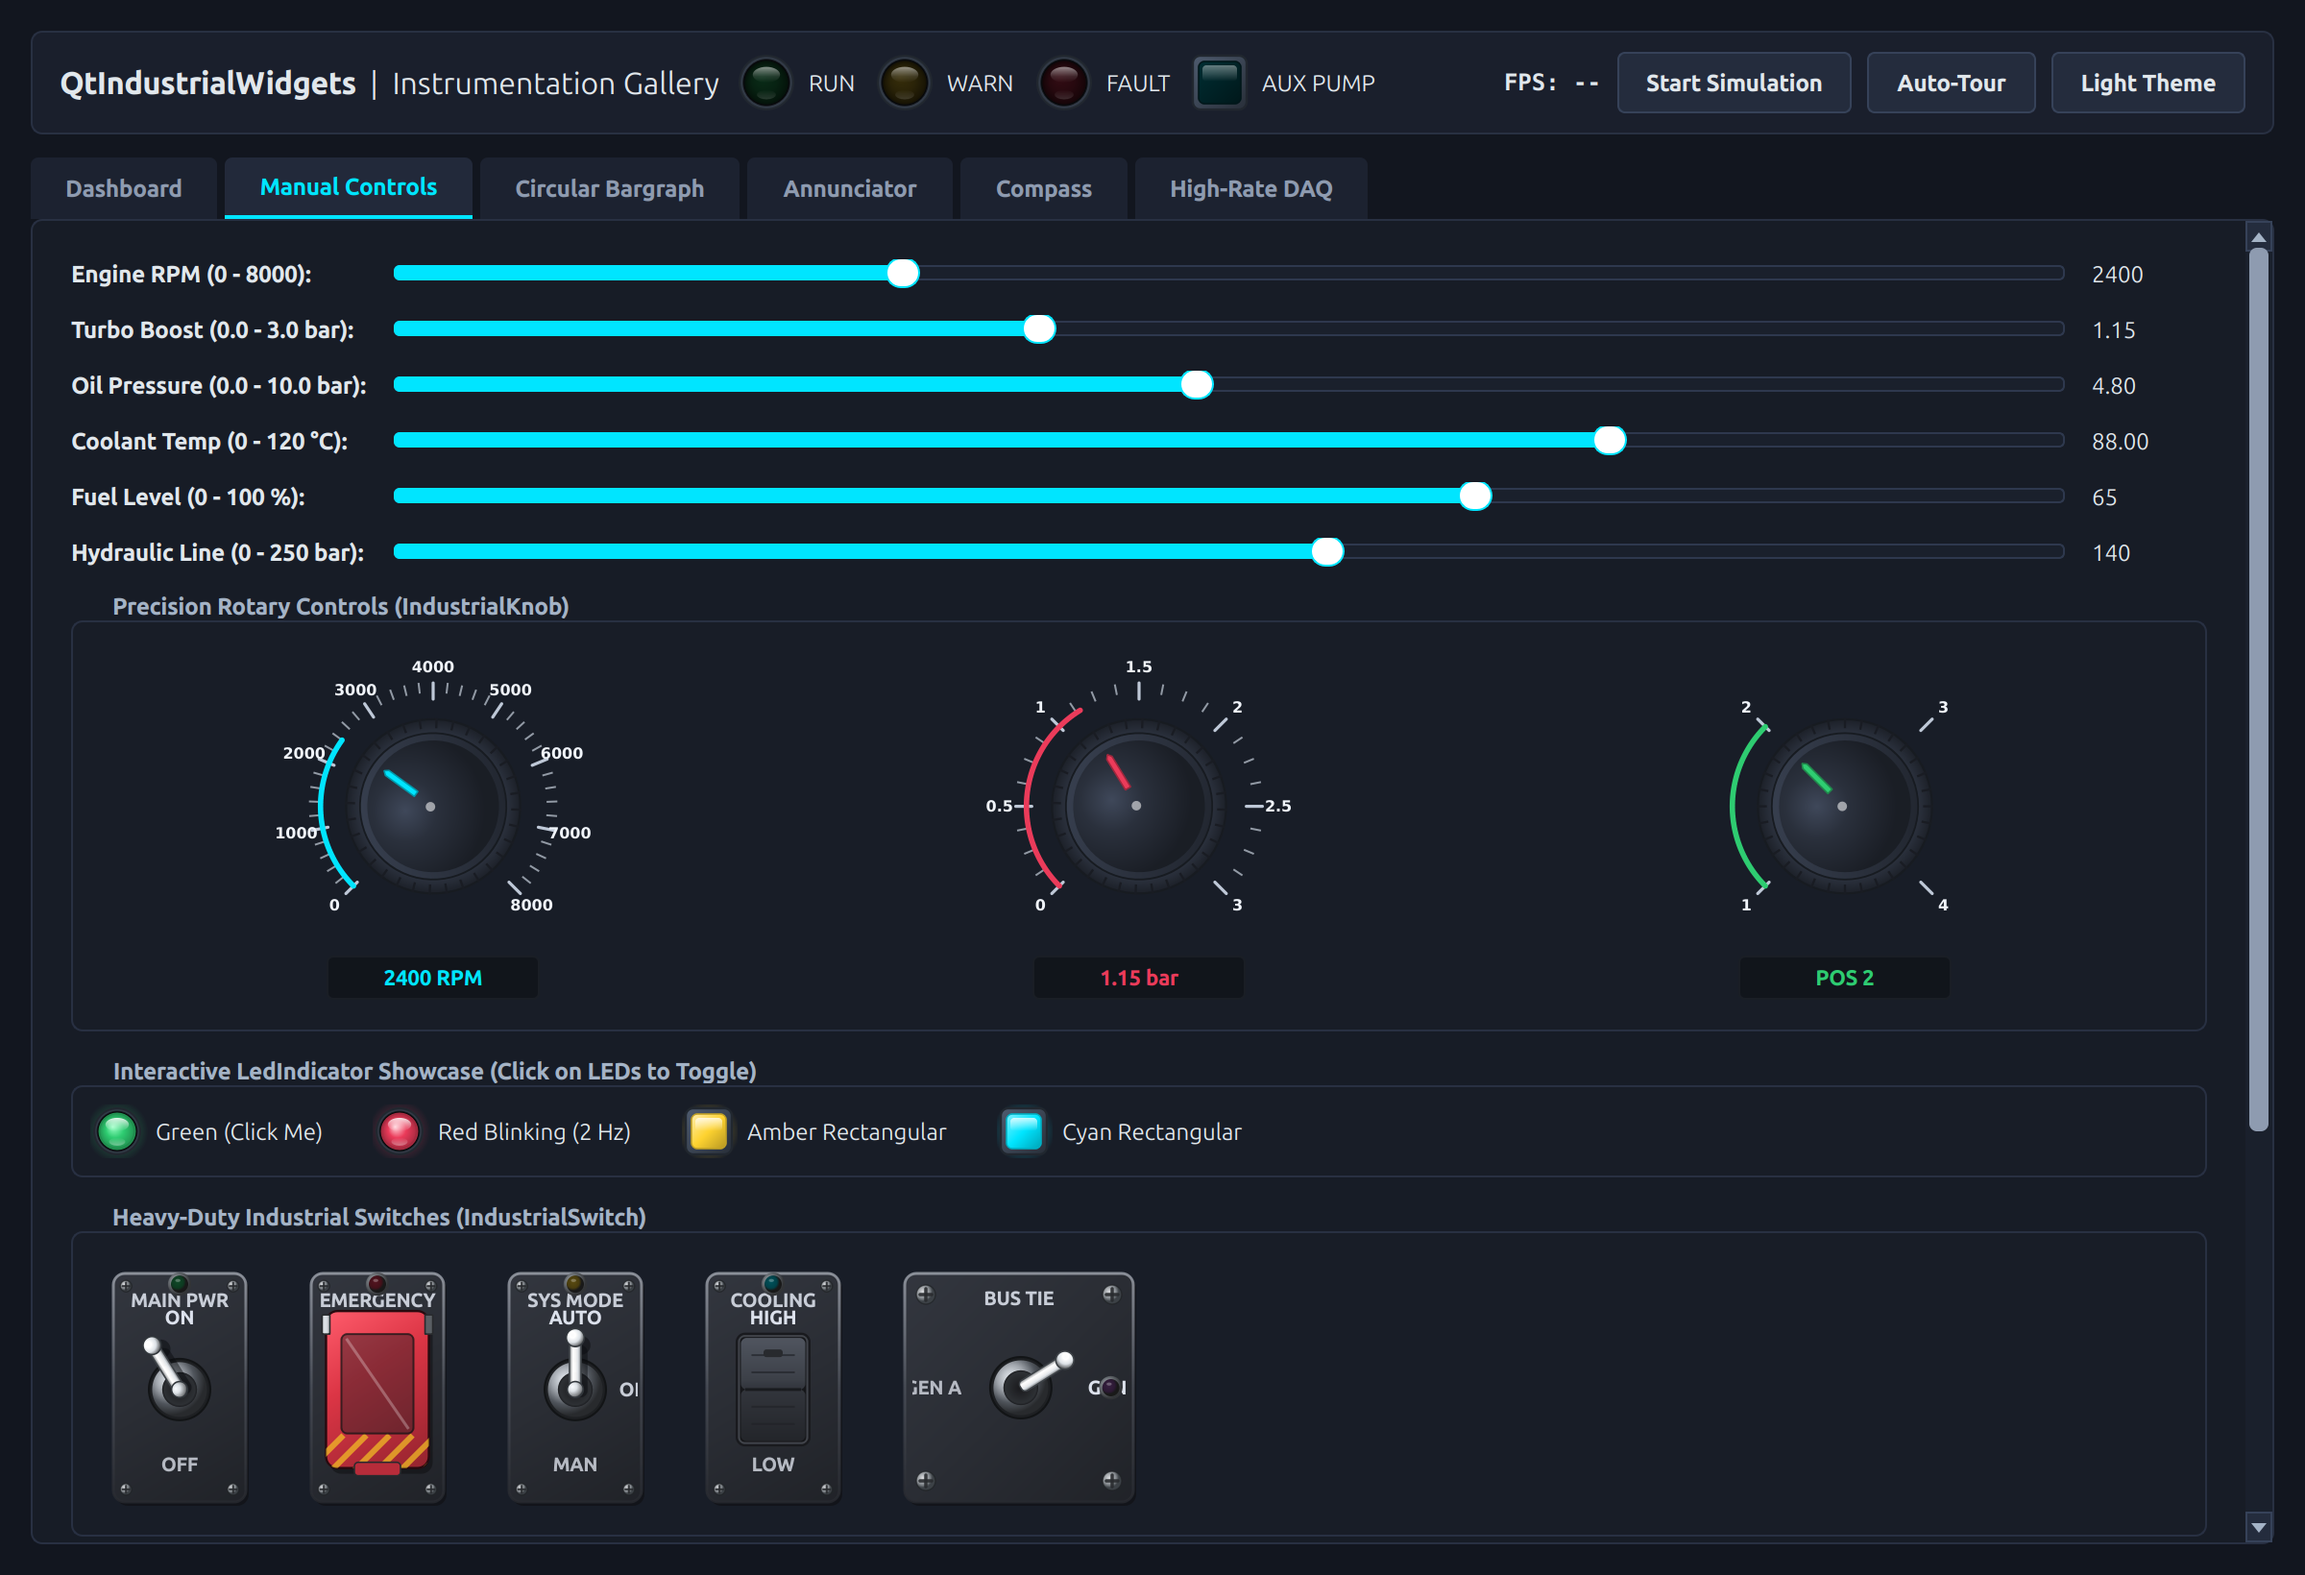
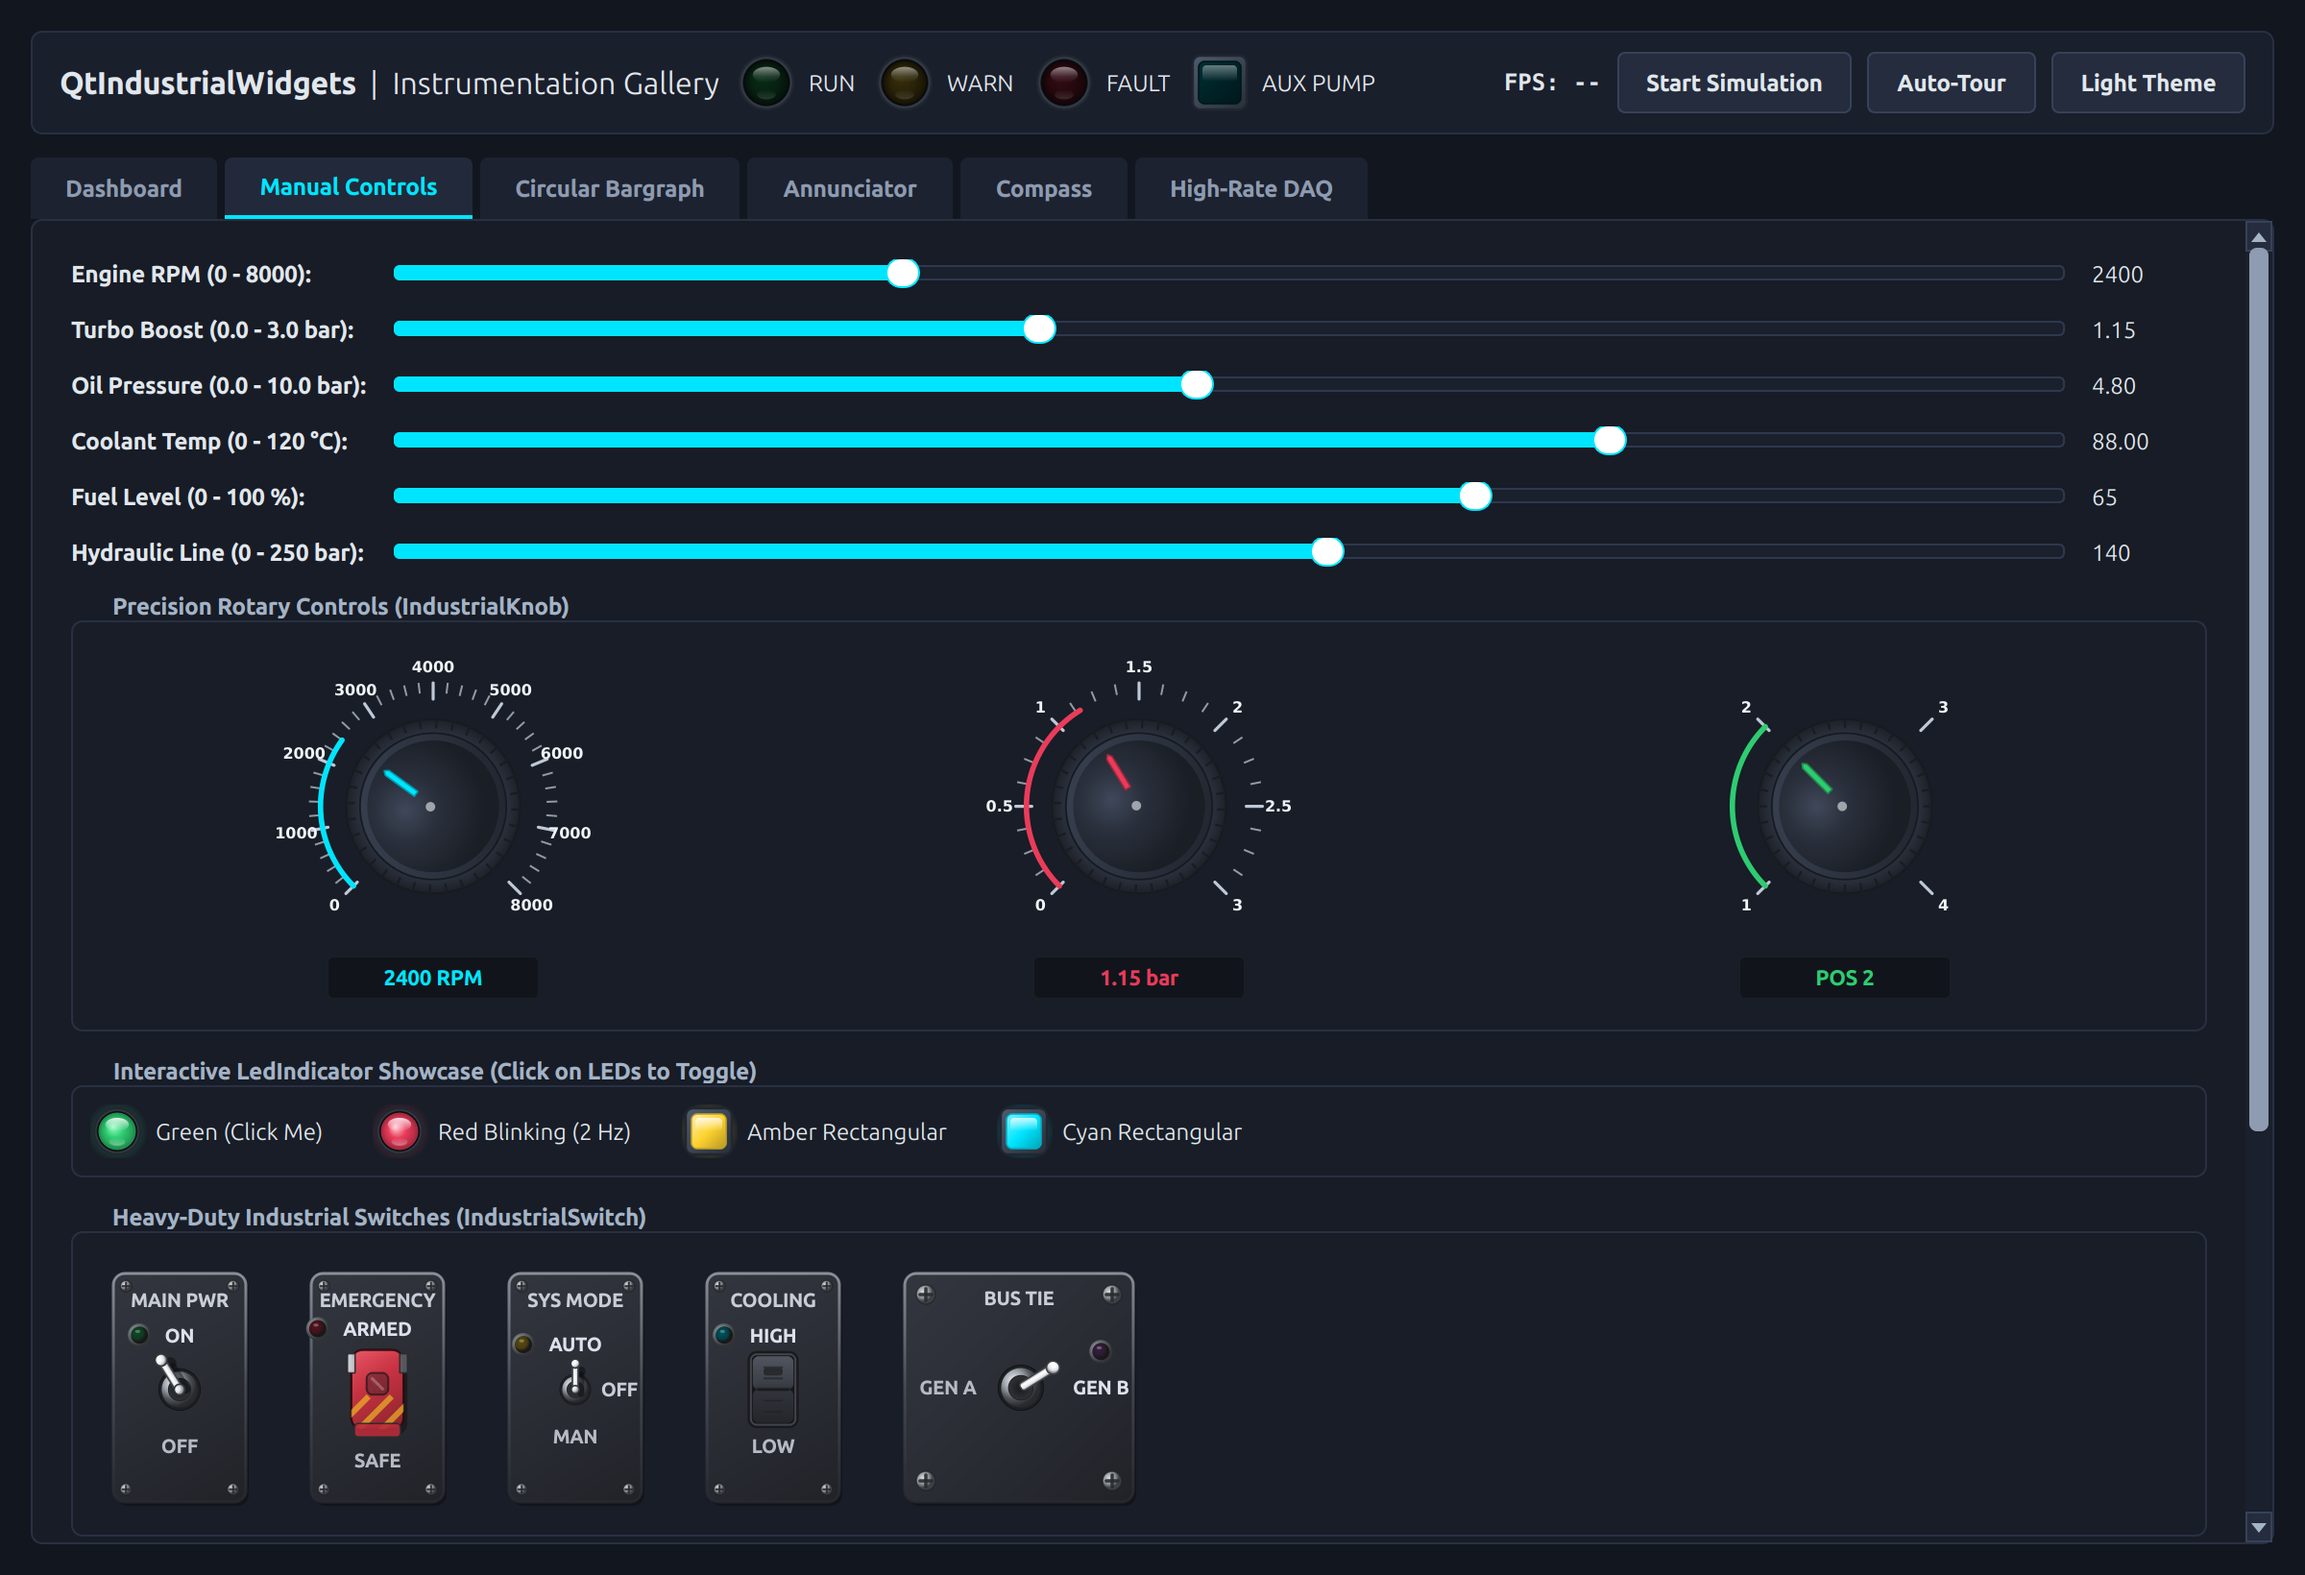
docs(industrialswitch): CHANGELOG and regenerated gallery images (#44)
--export-gallery changes industrial-switch-guarded-toggle.png,
industrial-switch-rocker.png and tab-manual-controls.png, and adds
industrial-switch-guarded-three-position.png (at its sizeHint()); the
other images are byte-identical.

diff --git a/CHANGELOG.md b/CHANGELOG.md
@@ -24,6 +24,12 @@ and this project adheres to [Semantic Versioning](https://semver.org/spec/v2.0.0
 - **Glow dot next to a dropout**: In decimated traces the glow dot on the latest point is no longer drawn when the newest bucket is blank (the legend still shows the latest value), and it is clipped so it never draws inside a blank dropout column.
 - **`RadialGauge` digital display layout** (#43): the readout pod is no longer a fixed 0.68 r × 0.28 r box. It is narrowed so that it and the unit text keep max(2 px, 0.02 r) from every scale label; except in the case below, it is never wider than before. The value font is the largest size up to the previous 0.15 r at which the widest value of the range (minimum or maximum at the current precision) fits, down to max(8 px, scale label font). The pod stays at its previous height or moves below the end-of-arc labels, whichever allows the larger value font (the previous height on a tie). The value has precedence: if it does not fit at that size, the pod grows to hold it whole, even over a label. The scale radius and label font are unchanged. With the default 270° arc the pod is narrower on most gauges (e.g. 0–8000 at 300 px: 99.3 → 82.3 px), and the pod moves down where that keeps a larger value font (e.g. −1000…1000 and 0–100000 at 200 px).
 - **`SevenSegmentDisplay::text()` for values that round to zero** (#46): with `decimalPlaces` ≥ 0, a negative value that rounds to zero now gives the same text as zero (e.g. −0.04 with 1 decimal: "0.0", previously "-0.0").
+- **`IndustrialSwitch` layout of labels, LED and safety guard** (#44):
+  - the position labels are placed around the safety guard (its shadow, lift tab and hinge brackets included), so the closed cover never covers them; the closed cover is drawn at 0.9 opacity;
+  - the status LED sits left of the ON label (vertical) or above it (horizontal), with its glow clear of every text;
+  - the open guard is drawn edge-on in free plate space (left of the switch, or below it and below the centre label) instead of rotated over the labels and out of the widget; a click on it closes the guard (previously a click in the top 15 px of the guard area);
+  - where a label, the LED or the open guard would not fit, the switch is drawn smaller about its centre.
+- **`IndustrialSwitch::sizeHint()` with a safety guard and 3 positions** (#44): the smallest size, with the aspect ratio of the previous hint (75×125 / 125×75) and not smaller, at which the switch keeps its natural size and every text fits. Other configurations keep the previous hint.
 
 ### Fixed
 - **Relative time labels with a short span** (regression introduced in #12): with a time span shorter than `W_dev` ns the window is `W_dev` ns wide (1 ns buckets), but relative X-axis labels were still computed for the configured span, so they did not match the data (e.g. "−400 ns" at the left edge of a 1000 ns window). Relative labels now describe the effective window, like absolute labels.
@@ -37,6 +43,7 @@ and this project adheres to [Semantic Versioning](https://semver.org/spec/v2.0.0
 - **`RadialGauge` and `IndustrialKnob` scale labels no longer clipped** (#35): each scale label was drawn into a rectangle exactly as large as its font bounding rectangle and clipped to it, which cut up to 1 px off labels on macOS (the same defect fixed in `LinearGauge` in #31). The labels are now drawn without clipping; their positions are unchanged.
 - **`RadialGauge` end-of-arc labels hidden by the digital display** (#43): the pod was drawn over the corner of the last scale label (e.g. "8000"), and of the first one with a symmetric range (e.g. "−1000"), at every size with the default 270° arc. A value wider than the pod (e.g. "100000.0" at 200 px) was clipped at the pod edges; it is now always drawn whole.
 - **No negative zero in the numeric texts** (#46): a negative value that rounds to zero at the displayed precision was shown with a sign ("-0.0", "-0"). All fixed-point texts now go through one internal function, so they show "0.0" / "0": `RadialGauge`, `IndustrialKnob` and `LinearGauge` scale labels and value readouts, `LevelMeter` scale labels, `SevenSegmentDisplay`, the `CircularBargraph` readout (including "<" / ">"), and the `StripChart` Y-axis labels, legend, and time labels in seconds (e.g. "-0.0 s" for a tick at −40 ms with explicit negative timestamps). Other values are formatted as before, including the rounding boundary (−0.05 with 1 decimal is still "-0.1").
+- **`IndustrialSwitch` texts covered or clipped** (#44): the LED was drawn over the title or the ON label, the guard (closed or open) over the position labels, the open guard beyond the widget edge, and side labels were clipped by their rectangle ("AUT", "ARME"); with the guard closed some labels dropped to a contrast of 1.9:1 or were fully hidden. Every label now reaches at least 4.5:1 with the guard closed.
 
 ### Performance
 - **SampleIndex streaming without periodic stream rebuilds**: While data streamed in, the SampleIndex window alternated between `W_dev` and `W_dev + 1` buckets, which changed the decimation stream's ring size and forced a full O(N) rebuild of the stream on many frames (periodic 50–190 ms frames in #7; 14 rebuilds in 36 frames for 1 ch × 4M samples). Fixed as a side effect of the bucket/pixel-column alignment (#12): the window always holds `W_dev` buckets, so the stream is built once and then updated per sample. Measured with SampleIndex and Time interleaved in the same loop, the SampleIndex streaming render p95 is within 0.75–1.26× of Time mode for the cases of #7.
@@ -47,6 +54,7 @@ and this project adheres to [Semantic Versioning](https://semver.org/spec/v2.0.0
 - **Dropout columns**: Removed the `QEXPECT_FAIL` markers on the segment count of `nonFiniteValuesBreakTheTrace`; its pixel check remains an expected failure only because bucket edges are not aligned to device columns in that geometry (#12). Added tests for single, edge, consecutive, streaming and evicted dropouts, for the glow dot next to a blank column and for autoscale with a blank column, and extended the incremental-equals-batch property test to compare the sets of drawn and blank buckets.
 - **`RadialGauge` digital display** (#43): `scaleLabelsNotHiddenByDigitalDisplay` (no scale-label pixel changes when the display is shown; 4 sizes × 3 ranges × 2 arcs) and `valueTextInsideDigitalDisplay` (the value stays inside the pod with a margin, including a value that only fits by covering a label), `valueFontNotReducedWhenLoweringAvoidsIt`; new `tst_RadialGaugeLayout` for the scale geometry, pod layout, choice of the place with the larger value font, value precedence and value-font fitting.
 - **Negative zero** (#46): `tst_NumberFormat` for the shared fixed-point and scale-label formatting; `tst_FixedFormatUsage`, which fails on any `QString::number(..., 'f', ...)` or `.arg(..., 'f', ...)` in `src/` outside `internal/NumberFormat`; behaviour tests for the `RadialGauge` value readout and scale labels (pixels), the `StripChart` Y-axis labels, legend and seconds labels (frame diagnostics, new internal `legendLabels`), `SevenSegmentDisplay::text()` and the `CircularBargraph` readout.
+- **`IndustrialSwitch` labels** (#44): `ledDoesNotCoverLabels`, `guardDoesNotCoverLabels`, `guardStaysInsideWidget`, `closedGuardLabelsReadable` (WCAG contrast ≥ 4.5:1 per label) and `labelsNotClipped` over 16 configurations plus the size hint, at every ctest DPR, isolating text, guard and LED pixels through their public colours; `sizeHintKeepsGuardedThreePositionSwitchReadable` on the new internal `IndustrialSwitchLayout`.
 
 ---
 
